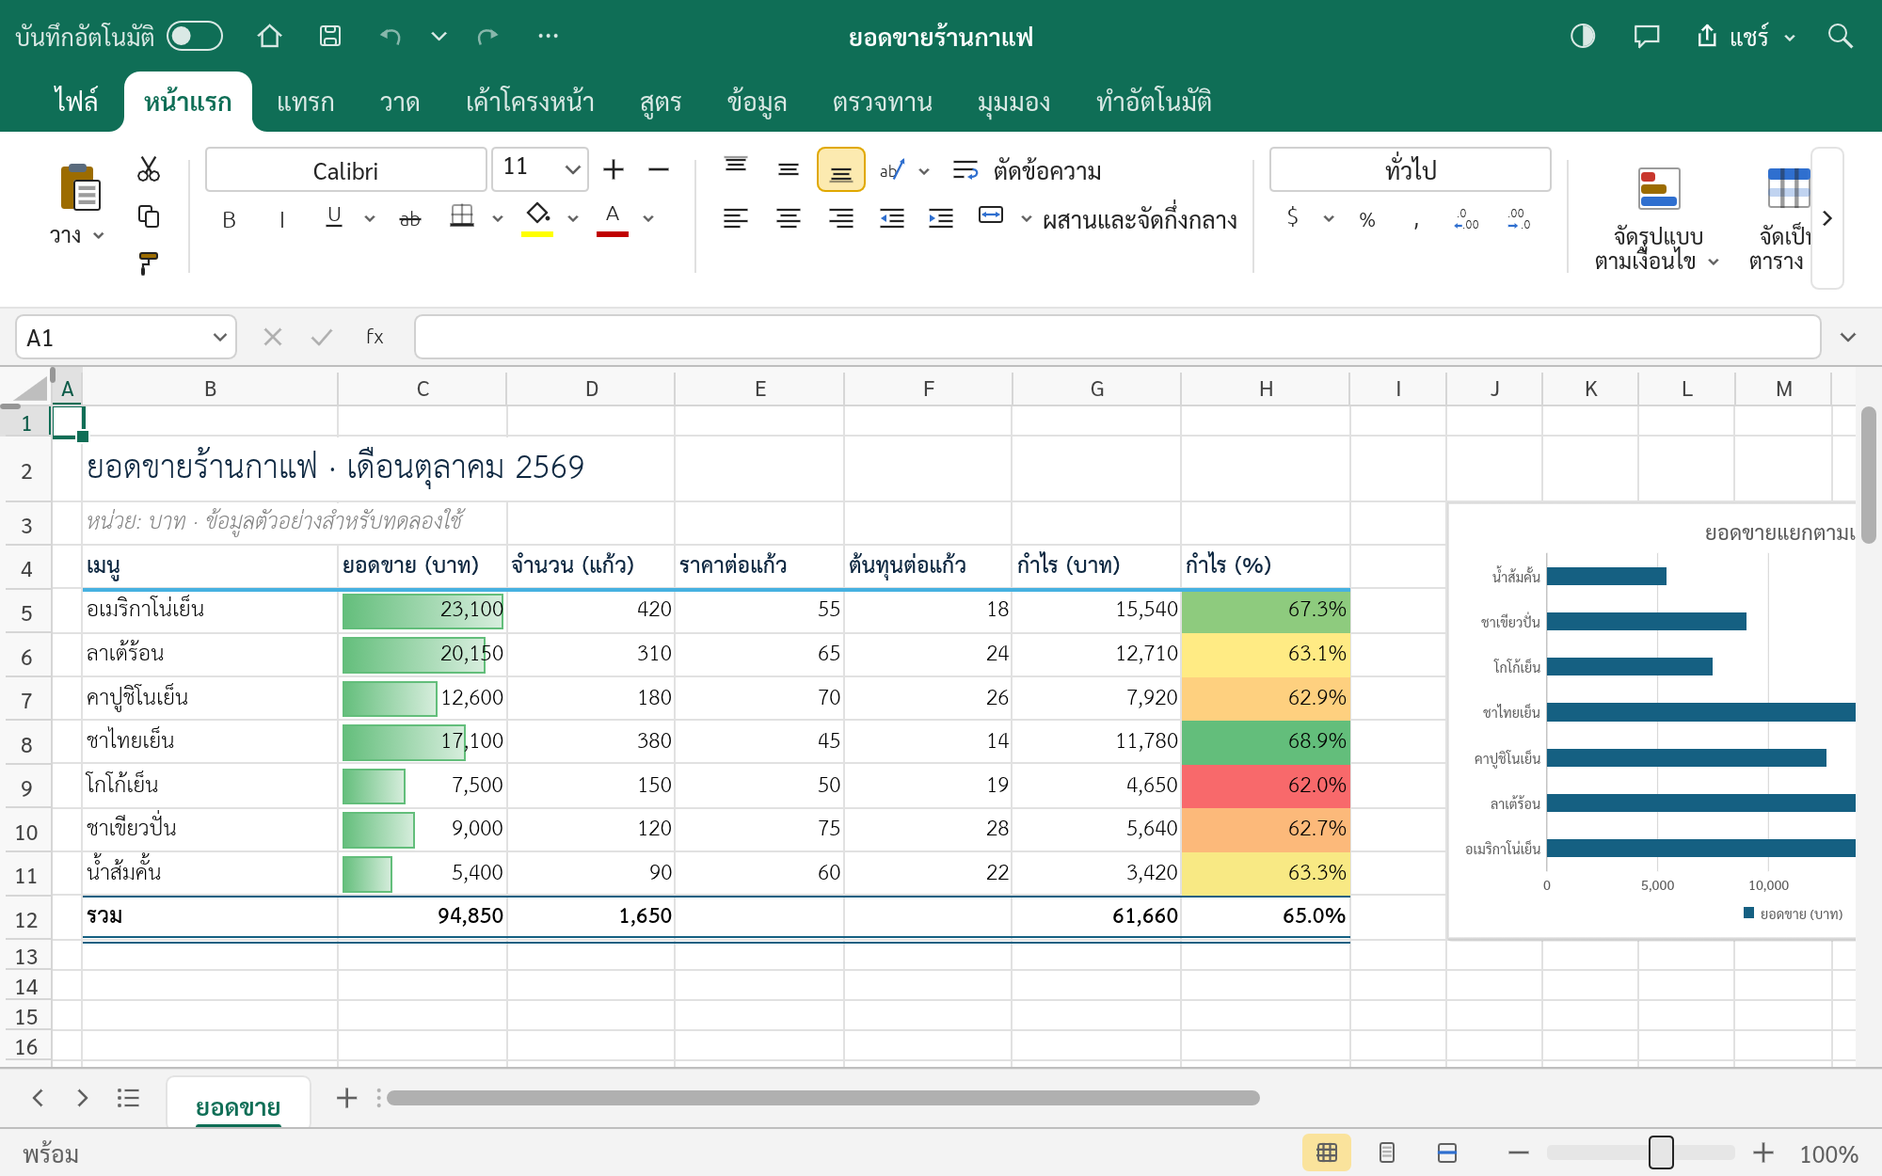
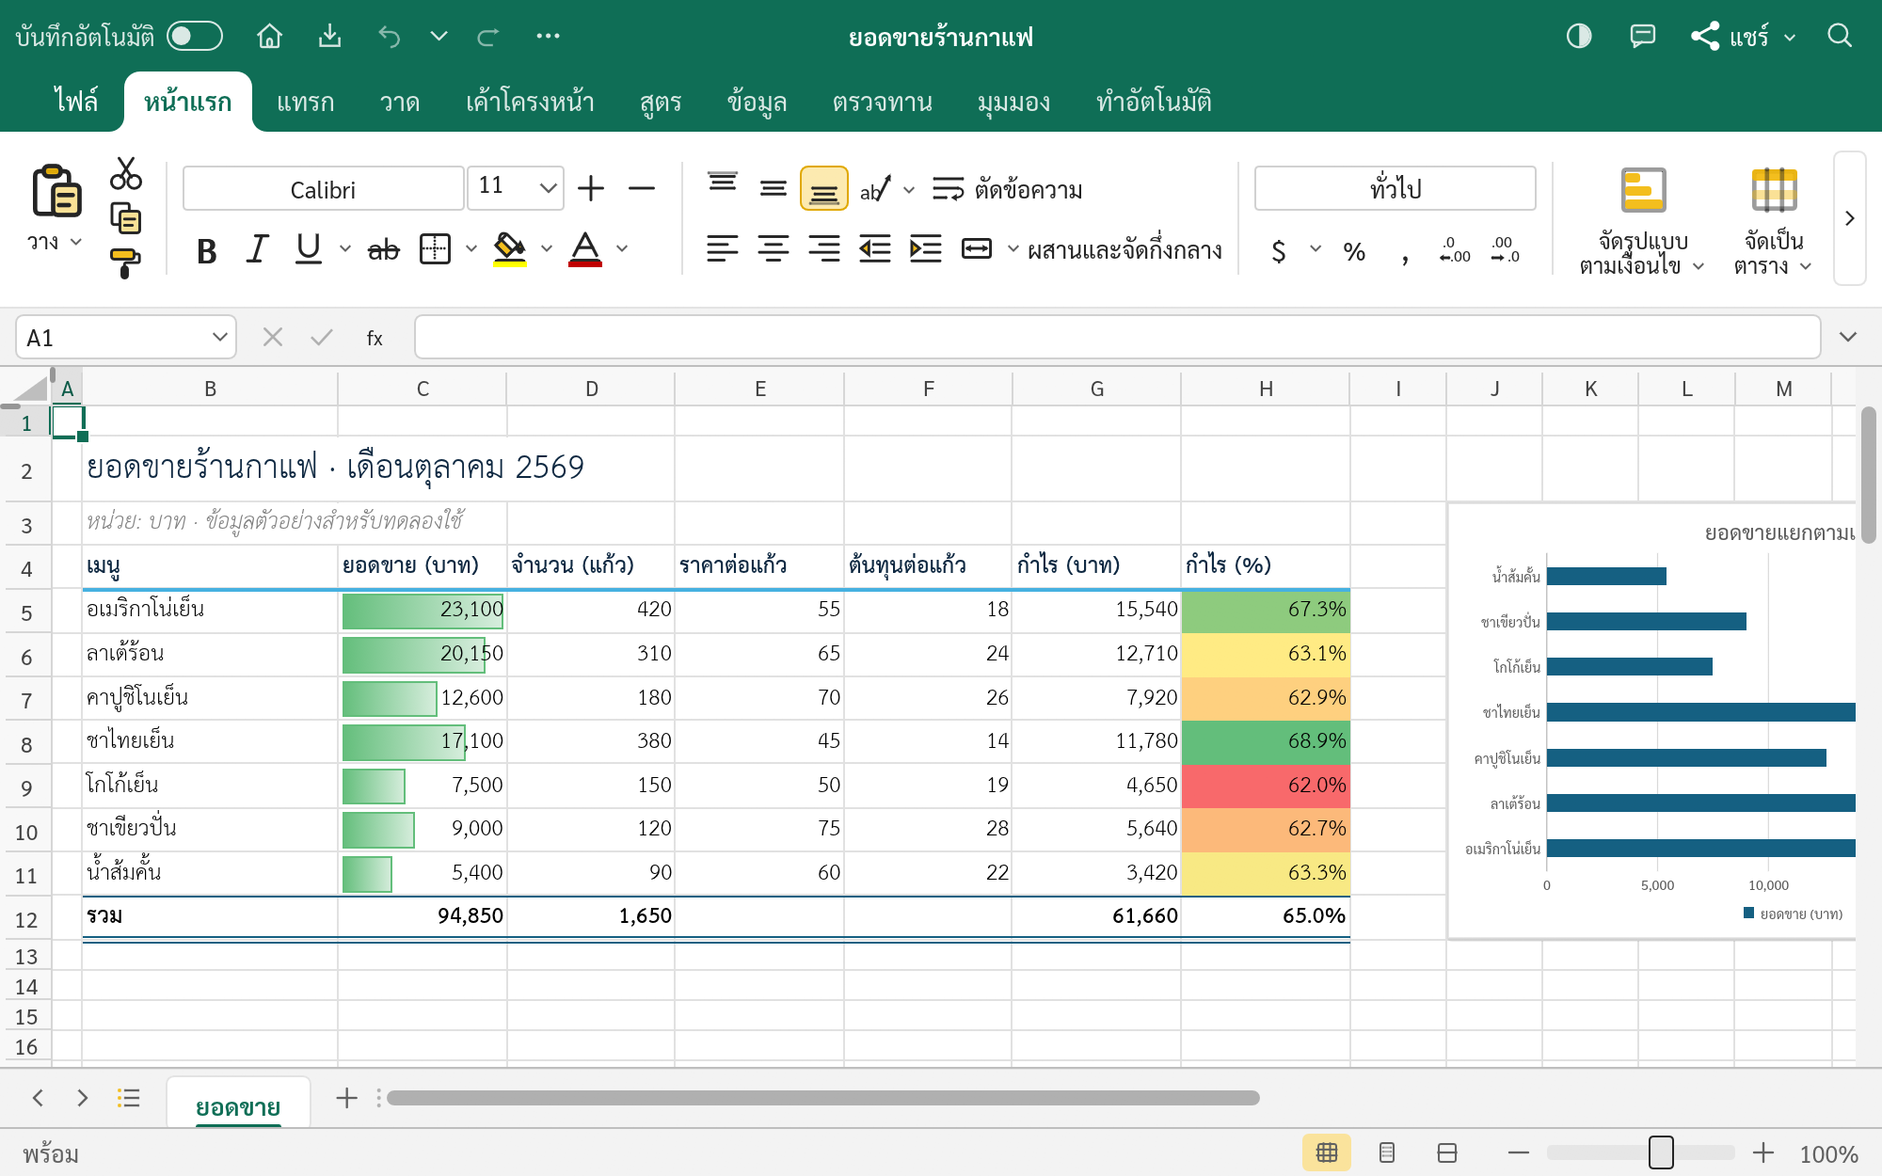
Publish KrubOffice launcher (3c444ddc)

Changed region(s): [[0.0, 0.1248, 0.899, 0.2496], [0.93, 0.1248, 0.992, 0.2496], [0.868, 0.0, 0.899, 0.0312]]

diff --git a/README.md b/README.md
@@ -52,6 +52,7 @@
 | หน้าเริ่มต้นเหมือนกัน: แม่แบบ ฉบับร่างในเบราว์เซอร์ เปิดไฟล์ ตัวเลือก | The same start screen: templates, drafts kept in the browser, Open file, Options |
 | งานเปิดในแท็บใหม่ หน้าเริ่มต้นยังอยู่ที่เดิม | Each document opens in a new tab; the start screen stays where it is |
 | ฉบับร่างเก็บในเบราว์เซอร์ของคุณเท่านั้น ไฟล์ไม่ถูกส่งไปที่ใด | Drafts are kept in your own browser only; your files are not uploaded anywhere |
+| ไอคอนชุดเดียวกันและริบบิ้นขนาดเดียวกันทุกโปรแกรม | One icon set and one ribbon layout in every app |
 | ธีมสว่างและธีมมืด | Light and dark themes |
 | ตั้งค่าภาษาครั้งเดียว โปรแกรมจำไว้ให้ | Choose the language once; the app remembers it |
 
@@ -80,19 +81,20 @@
 <table>
 <tr>
 <td width="50%" valign="top"><img src="images/phutkrub-start.png" alt="The PhutKrub start screen in Thai: a top bar with เปิดไฟล์, ตัวเลือก and the app switcher, the greeting สวัสดีครับ จะนำเสนออะไรดีครับ, theme thumbnails, drafts in this browser and starter decks" width="100%"><p align="center"><sub><b>หน้าเริ่มต้น / Start screen</b></sub></p></td>
-<td width="50%" valign="top"><img src="images/phutkrub-editor.png" alt="PhutKrub with Thai menus: the coral band with a gold Present button, the slide thumbnails and the sample deck Northern Lights" width="100%"><p align="center"><sub><b>แก้ไขสไลด์ / Editing slides</b></sub></p></td>
+<td width="50%" valign="top"><img src="images/phutkrub-editor.png" alt="PhutKrub with Thai menus and the new icons: the coral band with a gold Present button, the slide thumbnails and the sample deck Northern Lights" width="100%"><p align="center"><sub><b>แก้ไขสไลด์ / Editing slides</b></sub></p></td>
 </tr>
 </table>
 
 - สร้างสไลด์จากธีมและชุดสไลด์เริ่มต้น ใส่รูปร่าง รูปภาพ ตาราง แผนภูมิ / Start from themes and starter decks; add shapes, pictures, tables and charts
 - เอฟเฟกต์การเปลี่ยนสไลด์และภาพเคลื่อนไหว นำเสนอเต็มจอ / Transitions, animations and a full-screen slide show
 - เปิดและบันทึกไฟล์ PowerPoint (`.pptx`) / Open and save `.pptx`
+- จัดข้อความแบบกระจายไทย (ปุ่มตัว ท) / Thai Distribution (the ท button)
 - สไลด์ใหม่ใช้ TH Sarabun New / New slides use TH Sarabun New
 
 <table>
 <tr>
 <td width="60%" valign="top"><img src="images/phutkrub-dark.png" alt="PhutKrub in the dark theme: a deep coral band, dark panes and the sample deck" width="100%"><p align="center"><sub><b>ธีมมืด / Dark theme.</b> เมนูและแถบเครื่องมือเป็นสีเข้ม สไลด์ยังขาวเหมือนตอนนำเสนอ / Menus and panes go dark; the slide stays as it will be shown.</sub></p></td>
-<td width="40%" valign="top"><img src="images/phutkrub-loading.png" alt="The PhutKrub loading screen: a gold พ on coral with the name พูดครับ and a gold loading bar" width="100%"><p align="center"><sub><b>หน้ารอเปิดโปรแกรม / Loading screen.</b> ครั้งแรกอาจใช้เวลาสักครู่ / The first visit can take a moment.</sub></p></td>
+<td width="40%" valign="top"><img src="images/phutkrub-loading.png" alt="The PhutKrub loading screen: a glass gold พ on coral with the name พูดครับ and a gold loading bar" width="100%"><p align="center"><sub><b>หน้ารอเปิดโปรแกรม / Loading screen.</b> ครั้งแรกอาจใช้เวลาสักครู่ / The first visit can take a moment.</sub></p></td>
 </tr>
 </table>
 
@@ -101,7 +103,7 @@
 <table>
 <tr>
 <td width="50%" valign="top"><img src="images/khitkrub-start.png" alt="The KhitKrub start screen in Thai: a top bar with เปิดไฟล์, ตัวเลือก and the app switcher, the greeting สวัสดีครับ วันนี้จะทำงานอะไรดี, the new-workbook tiles and drafts kept in this browser" width="100%"><p align="center"><sub><b>หน้าเริ่มต้น / Start screen</b></sub></p></td>
-<td width="50%" valign="top"><img src="images/khitkrub-editor.png" alt="KhitKrub with Thai menus: the teal band, the white active tab joined to the ribbon, and the Thai sample workbook ยอดขายร้านกาแฟ, a coffee shop's sales in baht, with a data bar, a colour scale and a chart" width="100%"><p align="center"><sub><b>ตารางคำนวณ / A spreadsheet</b></sub></p></td>
+<td width="50%" valign="top"><img src="images/khitkrub-editor.png" alt="KhitKrub with Thai menus and the new icons: the teal band, the white active tab joined to the ribbon, and the Thai sample workbook ยอดขายร้านกาแฟ, a coffee shop's sales in baht, with a data bar, a colour scale and a chart" width="100%"><p align="center"><sub><b>ตารางคำนวณ / A spreadsheet</b></sub></p></td>
 </tr>
 </table>
 
@@ -113,11 +115,32 @@
 <table>
 <tr>
 <td width="60%" valign="top"><img src="images/khitkrub-dark.png" alt="KhitKrub in the dark theme: a deep teal band, dark panes and the Thai sample workbook" width="100%"><p align="center"><sub><b>ธีมมืด / Dark theme.</b> ตารางยังขาวเหมือนตอนพิมพ์ / The sheet stays white, as it will print.</sub></p></td>
-<td width="40%" valign="top"><img src="images/khitkrub-loading.png" alt="The KhitKrub loading screen: a gold ค on teal with the name คิดครับ and a gold loading bar" width="100%"><p align="center"><sub><b>หน้ารอเปิดโปรแกรม / Loading screen.</b> ครั้งแรกอาจใช้เวลาสักครู่ / The first visit can take a moment.</sub></p></td>
+<td width="40%" valign="top"><img src="images/khitkrub-loading.png" alt="The KhitKrub loading screen: a glass gold ค on teal with the name คิดครับ and a gold loading bar" width="100%"><p align="center"><sub><b>หน้ารอเปิดโปรแกรม / Loading screen.</b> ครั้งแรกอาจใช้เวลาสักครู่ / The first visit can take a moment.</sub></p></td>
 </tr>
 </table>
 
 ## มีอะไรใหม่ / What's new
+
+**1 พฤศจิกายน 2569 (ไอคอนชุดใหม่) / 1 November 2026 (new icons)**
+
+- **ไอคอนชุดใหม่ใช้ร่วมกันทั้งสามโปรแกรม** ไอคอนบนริบบิ้นวาดใหม่ทั้งชุด เส้นสีเข้มอ่านง่าย แต้มสีทองเฉพาะส่วนสำคัญ ปุ่มเดียวกันจึงหน้าตาเหมือนกันทั้งเขียนครับ พูดครับ และคิดครับ / **One new icon set for all three apps.** Every ribbon icon is redrawn with dark, easy-to-read lines and a touch of gold where it matters, so the same button looks the same in KhianKrub, PhutKrub and KhitKrub.
+- **ริบบิ้นแบบเดียวกัน** พูดครับและคิดครับใช้ขนาดริบบิ้นของเขียนครับ ไอคอนใหญ่ขึ้น ปุ่มเรียงกึ่งกลาง / **One ribbon layout.** PhutKrub and KhitKrub now use KhianKrub's ribbon: larger icons, centred buttons.
+- **พูดครับจัดข้อความแบบกระจายไทยได้** ปุ่มตัว ท ถัดจากปุ่มจัดชิดขอบทั้งสองด้าน กระจายระยะระหว่างตัวอักษรไทยให้เต็มบรรทัด บันทึกลงไฟล์ `.pptx` ได้ เขียนครับมีความสามารถนี้อยู่แล้วและได้ไอคอน ท เหมือนกัน / **Thai Distribution in PhutKrub.** A ท button next to Justify spreads the space between Thai letters to fill each line, and is saved in `.pptx`. KhianKrub already had it and gets the same ท icon.
+- **โลโก้แบบกระจก** ตัว ข ค พ สีทองมีประกายแบบกระจก ที่หน้ารอเปิดโปรแกรมและหน้าเริ่มต้นของแต่ละโปรแกรม / **Glass logos.** A gold ข, ค and พ with a glass shine on each app's loading and start screens.
+
+<p align="center">
+  <img src="images/khiankrub-ribbon.png" alt="KhianKrub's Home tab with the new icons: navy band, the Paste, font and paragraph groups, with the ท Thai Distribution button" width="100%">
+  <img src="images/phutkrub-ribbon.png" alt="PhutKrub's Home tab with the new icons: coral band, the Paste, slides, font and paragraph groups, with the new ท Thai Distribution button after Justify" width="100%">
+  <img src="images/khitkrub-ribbon.png" alt="KhitKrub's Home tab with the new icons: teal band, the Paste, font, alignment and number groups, Conditional Formatting and Format as Table" width="100%">
+</p>
+
+<table>
+<tr>
+<td width="33%" valign="top"><img src="images/khiankrub-loading.png" alt="The KhianKrub loading screen: a glass gold ข on navy" width="100%"><p align="center"><sub><b>เขียนครับ</b></sub></p></td>
+<td width="33%" valign="top"><img src="images/phutkrub-loading.png" alt="The PhutKrub loading screen: a glass gold พ on coral" width="100%"><p align="center"><sub><b>พูดครับ</b></sub></p></td>
+<td width="33%" valign="top"><img src="images/khitkrub-loading.png" alt="The KhitKrub loading screen: a glass gold ค on teal" width="100%"><p align="center"><sub><b>คิดครับ</b></sub></p></td>
+</tr>
+</table>
 
 **1 พฤศจิกายน 2569 / 1 November 2026**
 

diff --git a/ATTRIBUTION.md b/ATTRIBUTION.md
@@ -11,6 +11,7 @@ Generated-in-code art is original and has no file to list: the UI icon set (`cra
 | Asset | Author | Source | Licence | Notes |
 |---|---|---|---|---|
 | `docs/images/khiankrub-web-recovery.png` | Chanon Sarasuk with Codex | Actual Thai recovery manager in the web app, captured in headless Chrome with original synthetic document text | MIT OR Apache-2.0 | Browser-local recovery UI; no Microsoft assets |
+| `docs/images/khiankrub-web-ribbon.png` | Chanon Sarasuk with Claude | Actual KhianKrub web Home tab with the Quiet Glass icons, captured in headless Chrome on a fresh profile (built-in report template) | MIT OR Apache-2.0 | README screenshot of the new icons; no Microsoft UI or assets |
 | `docs/images/khiankrub-web-hero.png` | Chanon Sarasuk | Actual KhianKrub web editor captured in headless Chrome: Thai menus, Navigation pane, original Thai showcase report | MIT OR Apache-2.0 | Original; no Microsoft UI or assets |
 | `docs/images/khiankrub-web-krubOffice.png` | Chanon Sarasuk | Actual KrubOffice launcher page (khiankrub.app) captured in headless Chrome: three-tile logo, Thai greeting, the เขียนครับ, คิดครับ and พูดครับ tiles (letters traced from Sarabun Bold, SIL OFL 1.1), and the ประจำยาม lattice drawn by the page | MIT OR Apache-2.0 | README screenshot of the KrubOffice launcher (v0.10.0) |
 | `docs/images/khiankrub-web-start.png` | Chanon Sarasuk | Actual KhianKrub web start screen captured in headless Chrome on a fresh profile: Thai top bar and greeting, the five built-in template thumbnails (original WordCraft sample text), empty drafts section | MIT OR Apache-2.0 | README screenshot of the KhianKrub start screen (v0.10.0) |
@@ -19,7 +20,7 @@ Generated-in-code art is original and has no file to list: the UI icon set (`cra
 | `docs/images/khiankrub-web-save.png` | Chanon Sarasuk | Actual KhianKrub web Save page (download or Google Drive), captured in headless Chrome | MIT OR Apache-2.0 | Original; no Microsoft UI or assets |
 | `docs/images/khiankrub-web-editor-th.png` | Chanon Sarasuk with Codex | Actual KhianKrub web editor captured in headless Chrome, Thai menus and original Thai–English example text | MIT OR Apache-2.0 | Original; no Microsoft UI or assets |
 | `docs/images/khiankrub-web-editor-en.png` | Chanon Sarasuk | Actual KhianKrub web editor captured in headless Chrome, English menus and the original Thai showcase report | MIT OR Apache-2.0 | Original; no Microsoft UI or assets |
-| `docs/images/khiankrub-web-loading.png` | Chanon Sarasuk with Codex | Actual KhianKrub navy-and-gold loading screen captured in headless Chrome | MIT OR Apache-2.0 | Original HTML/CSS; system-rendered text |
+| `docs/images/khiankrub-web-loading.png` | Chanon Sarasuk with Codex; retaken with Claude | Actual KhianKrub navy loading screen with the glass ข logo, captured in headless Chrome | MIT OR Apache-2.0 | Original HTML/CSS; system-rendered text |
 | `packaging/web/kruboffice/images/kruboffice-launcher.png` | Chanon Sarasuk with Claude | Actual KrubOffice launcher page (kruboffice.app) captured in headless Chrome: three-tile logo, Thai greeting, the three live app tiles (letters traced from Sarabun Bold, SIL OFL 1.1) | MIT OR Apache-2.0 | Original; no Microsoft UI or assets |
 | `packaging/web/kruboffice/images/krubOffice-192.png` | Chanon Sarasuk | KrubOffice logo (three overlapping tiles) rendered from the drawn SVG, copied from packaging/web/public/icons | MIT OR Apache-2.0 | Original artwork; no Microsoft UI or assets |
 | `packaging/web/kruboffice/images/khiankrub-hero.png` | Chanon Sarasuk | Copy of docs/images/khiankrub-web-hero.png: the KhianKrub web editor with Thai menus and the original Thai showcase report | MIT OR Apache-2.0 | Original; no Microsoft UI or assets |
@@ -33,6 +34,8 @@ Generated-in-code art is original and has no file to list: the UI icon set (`cra
 | `packaging/web/kruboffice/images/khitkrub-editor.png` | Chanon Sarasuk with Claude | Actual KhitKrub web app editor with Thai menus and the built-in sample, captured in headless Chrome; sample content: GridCraft-fork sample workbooks written for this app (original Thai coffee-shop data) | MIT OR Apache-2.0 | Original; no Microsoft UI or assets |
 | `packaging/web/kruboffice/images/khitkrub-dark.png` | Chanon Sarasuk with Claude | Actual KhitKrub web app editor in the dark theme, captured in headless Chrome; sample content: GridCraft-fork sample workbooks written for this app (original Thai coffee-shop data) | MIT OR Apache-2.0 | Original; no Microsoft UI or assets |
 | `packaging/web/kruboffice/images/khitkrub-loading.png` | Chanon Sarasuk with Claude | Actual KhitKrub web app loading screen, captured in headless Chrome; sample content: GridCraft-fork sample workbooks written for this app (original Thai coffee-shop data) | MIT OR Apache-2.0 | Original; no Microsoft UI or assets |
+| `packaging/web/kruboffice/images/khiankrub-loading.png` | Chanon Sarasuk with Claude | Copy of docs/images/khiankrub-web-loading.png: the KhianKrub loading screen with the glass ข logo | MIT OR Apache-2.0 | Original; no Microsoft UI or assets |
+| `packaging/web/kruboffice/images/khiankrub-ribbon.png`, `packaging/web/kruboffice/images/phutkrub-ribbon.png`, `packaging/web/kruboffice/images/khitkrub-ribbon.png` | Chanon Sarasuk with Claude | Actual Home tabs of the three web apps with the shared Quiet Glass icons, captured in headless Chrome on a fresh profile (built-in report template, DeckCraft's original sample deck, KhitKrub's original Thai sample workbook) | MIT OR Apache-2.0 | KrubOffice README screenshots; no Microsoft UI or assets |
 | `assets/hyphenation/en-us.pat` | DesignCraft contributors (generated) | trained from the Moby list by DesignCraft's patgen | Public Domain (CC0-1.0) | Our own Liang hyphenation patterns (no TeX patterns) |
[1 lines of base64/hex data omitted]
 | `assets/spelling/en-extra.txt` | WordCraft contributors | original word list written for this repository (common modern words the Moby list lacks); no other dictionary copied | MIT OR Apache-2.0 | ~240 lowercase English base forms supplementing spelling (#520), including British spellings (#40) |
@@ -170,3 +173,26 @@ DIP/SIPA's. Both package licences permit reproduction and distribution of the un
 | `fonts/THBaijam-*.ttf` (Bold, Bold Italic, Italic, Regular) | ทีม PITA; DIP/SIPA | Original [11-TH-Baijam.zip](https://www.f0nt.com/?dl_name=sipafonts/11-TH-Baijam.zip) | `fonts/LICENSE-SIPA-11.txt` |
 | `fonts/THKoHo-*.ttf` (Bold, Bold Italic, Italic, Regular) | กลุ่ม ก-ฮ; DIP/SIPA | Original [12-TH-KoHo.zip](https://www.f0nt.com/?dl_name=sipafonts/12-TH-KoHo.zip) | `fonts/LICENSE-SIPA-12.txt` |
 | `fonts/THFahkwang-*.ttf` (Bold, Bold Italic, Italic, Regular) | ทีม สิบเอ็ด; DIP/SIPA | Original [13-TH-Fah-Kwang.zip](https://www.f0nt.com/?dl_name=sipafonts/13-TH-Fah-Kwang.zip) | `fonts/LICENSE-SIPA-13.txt` |
+
+## Quiet Glass preview (2026-11-01)
+
+| Asset | Author | Source | Licence | Used for |
+|---|---|---|---|---|
+| `crates/krub-icons/src/lib.rs` | KrubOffice contributors | Original Quiet Glass Rust drawings, 24×24 grid, 2026-11-01 | MIT OR Apache-2.0 | Shared toolbar preview and glass letter treatment |
+| `assets/app-icon/khiankrub.svg`, `assets/app-icon/khiankrub-192.png`, `assets/app-icon/khiankrub-512.png` | KrubOffice contributors; The Sarabun Project Authors | Quiet Glass original treatment of existing Sarabun Bold letter outline | MIT OR Apache-2.0; letter outline SIL OFL 1.1 | Web icon master and generated install icons |
+| `assets/app-icon/OFL-Sarabun.txt` | The Sarabun Project Authors | Sarabun licence, google/fonts ofl/sarabun | SIL OFL 1.1 | Thai letter outline licence |
+
+## Quiet Glass shared catalog (2026-11-01)
+
+| Asset | Author | Source | Licence | Used for |
+|---|---|---|---|---|
+| `crates/krub-icons/src/deck.rs`, `crates/krub-icons/src/deck/draw.rs`, `crates/krub-icons/src/deck/geometry.rs` | DeckCraft and KrubOffice contributors | Original Rust artwork from storytold/deckcraft `crates/ui-egui/src/icons{.rs,/draw.rs,/geometry.rs}`; adapted to Quiet Glass ink, gold surfaces and 1.75-unit strokes | MIT OR Apache-2.0 | Shared canonical action symbols; no vendor artwork |
+| `crates/krub-icons/src/word.rs`, `crates/krub-icons/src/menu.rs` | WordCraft and KrubOffice contributors | Original Rust artwork from this suite's KhianKrub `crates/ui-egui/src/icons.rs` and `ribbon.rs`; converted to the common master and palette | MIT OR Apache-2.0 | Document-specific actions and menu diagrams |
+| `crates/krub-icons/src/sheet.rs` | GridCraft and KrubOffice contributors | Original Rust artwork from this suite's KhitKrub `crates/ui-egui/src/icons.rs`; adapted to common geometry, aliases and palette | MIT OR Apache-2.0 | Spreadsheet-specific actions |
+
+## Thai Distribution icon (2026-11-01)
+
+| Asset | Author | Source | Licence | Used for |
+|---|---|---|---|---|
+| `crates/krub-icons/src/thai.rs` | KrubOffice contributors; The Sarabun Project Authors | Original square; preflattened ท glyph from the existing Sarabun SemiBold face, google/fonts ofl/sarabun | Square/code MIT OR Apache-2.0; glyph SIL OFL 1.1 | Font-independent shared Thai Distribution toolbar icon |
+| `crates/krub-icons/OFL-Sarabun.txt` | The Sarabun Project Authors | Existing Sarabun licence, copied unchanged from assets/app-icon/OFL-Sarabun.txt | SIL OFL 1.1 | Licence for the ท outline |
